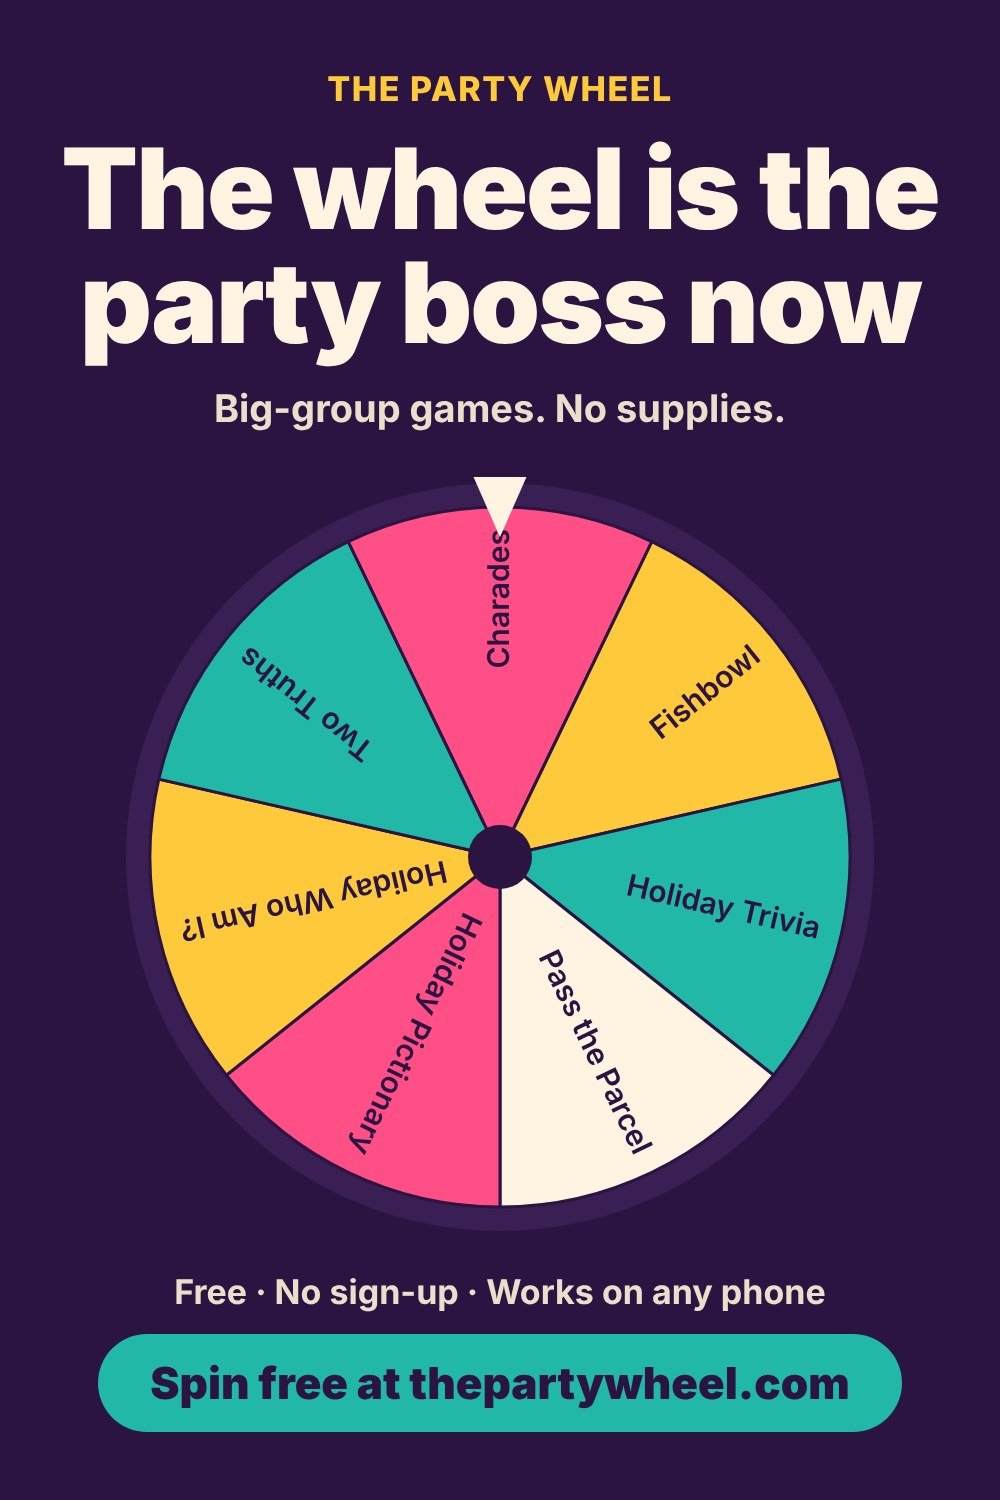
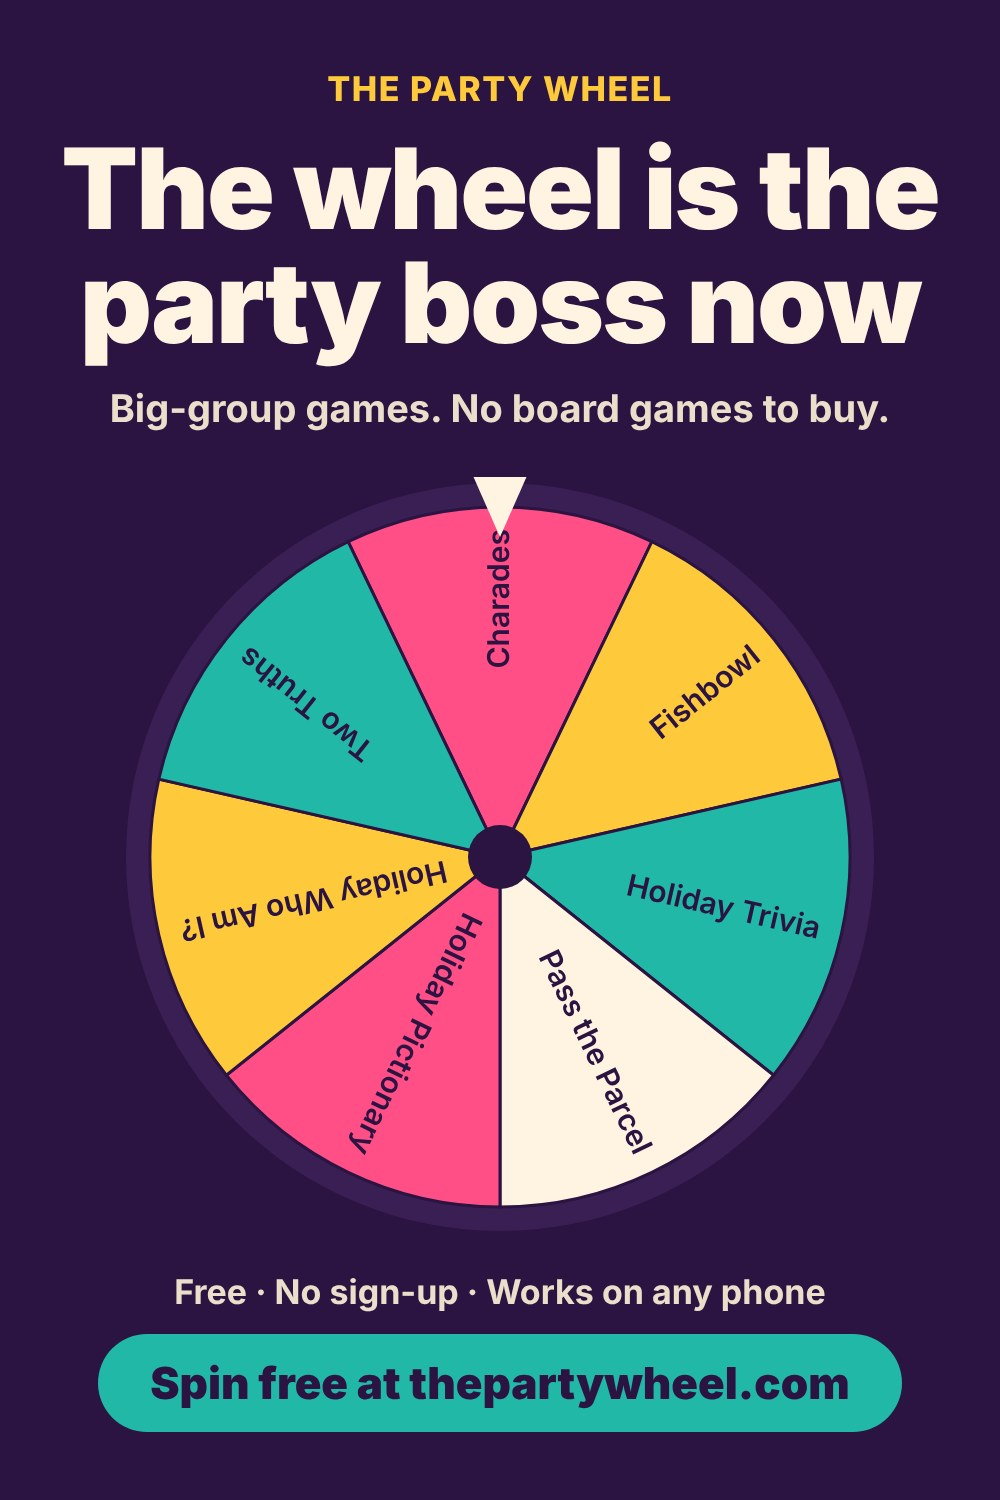
Office party pin: 'No board games to buy' (true for the linked games); log 11/21 decisions
Claude-Session: https://claude.ai/code/session_01R9vtMENpCdYpU2TyWa27ik

Changed region(s): [[0.093, 0.2453, 0.868, 0.3067]]

diff --git a/docs/decisions.md b/docs/decisions.md
@@ -81,3 +81,4 @@
 | 2026-11-10 | Added the 2026 Booker Prize winner, The End of Everything by M. John Harrison, to the book club favorites (fiction). Bookshop link is a plain search until the ISBN is confirmed on Bookshop; candidate ISBN 9798217438655 (Riverhead US hardcover, per penguinrandomhouse.com) in docs/bookshop/awards-2026.csv for Mark's Bookshop list upload. National Book Award fiction/nonfiction winners follow 11/19 | Mark approved adding book award winners (11/9). Winner confirmed from the full text of ABC News (abc.net.au, 11/10) and Book Riot (11/9). Security: pass (title rendered as text, no new third parties) |
 | 2026-11-13 | Book club picker: "Use our club’s list" button under Spin; search-as-you-type via Open Library (free public API, browser-side, search words only, 3+ chars, 400 ms pause, 30 per visit); each book removable, "Edit as text" kept; share button now "Share a copy" with a copy note (count + date) and no overwrite of the receiver's saved list; "Read on Kindle" link (no tag); privacy page updated; input contrast and 44px link rows | Feedback from Mark's book club: own-list entry was hard to find and slow to type, people expected shared links to update live. Mark chose Open Library and snapshot links (no backend). UX spec, security PASS, 82 Playwright checks |
 | 2026-11-21 | Book club picker v2: dropdown filters (Occasion, Mood, Genre) above the wheel with live match counts; new tagged library (library.json: 178 books incl. 73 Christmas & holiday picks with our own one-line reasons); 3-way switch Suggested / Our list / Who hosts; result card with tags, reason, "Borrow free from your library" as main button and other stores under "More ways to get it" | Analytics review 11/21: book club page carries the site, store taps very low, page too busy (Mark's girlfriend). Mark asked for a concise dropdown workflow, mobile first, tried the prototype, and asked for the PR. Marketing tagged the books, UX spec v2, security PASS after moving the disclosure. Main button store, Pinterest stop and spin counting still open |
+| 2026-11-21 | Bookshop.org is the main result-card button (library link right under it); every wheel counts spins in GoatCounter (filter labels only). New pin style test: 6 playful pins Nov 24 – Dec 9, judged Dec 16; Pinterest otherwise stops per the Nov 30 rule | Mark: Bookshop is where we get paid; keep trying free traffic with a bolder pin style aimed at the audience we reach (hosting, women 25–44); spin counts show whether people reach the store links. Security PASS on all three |
